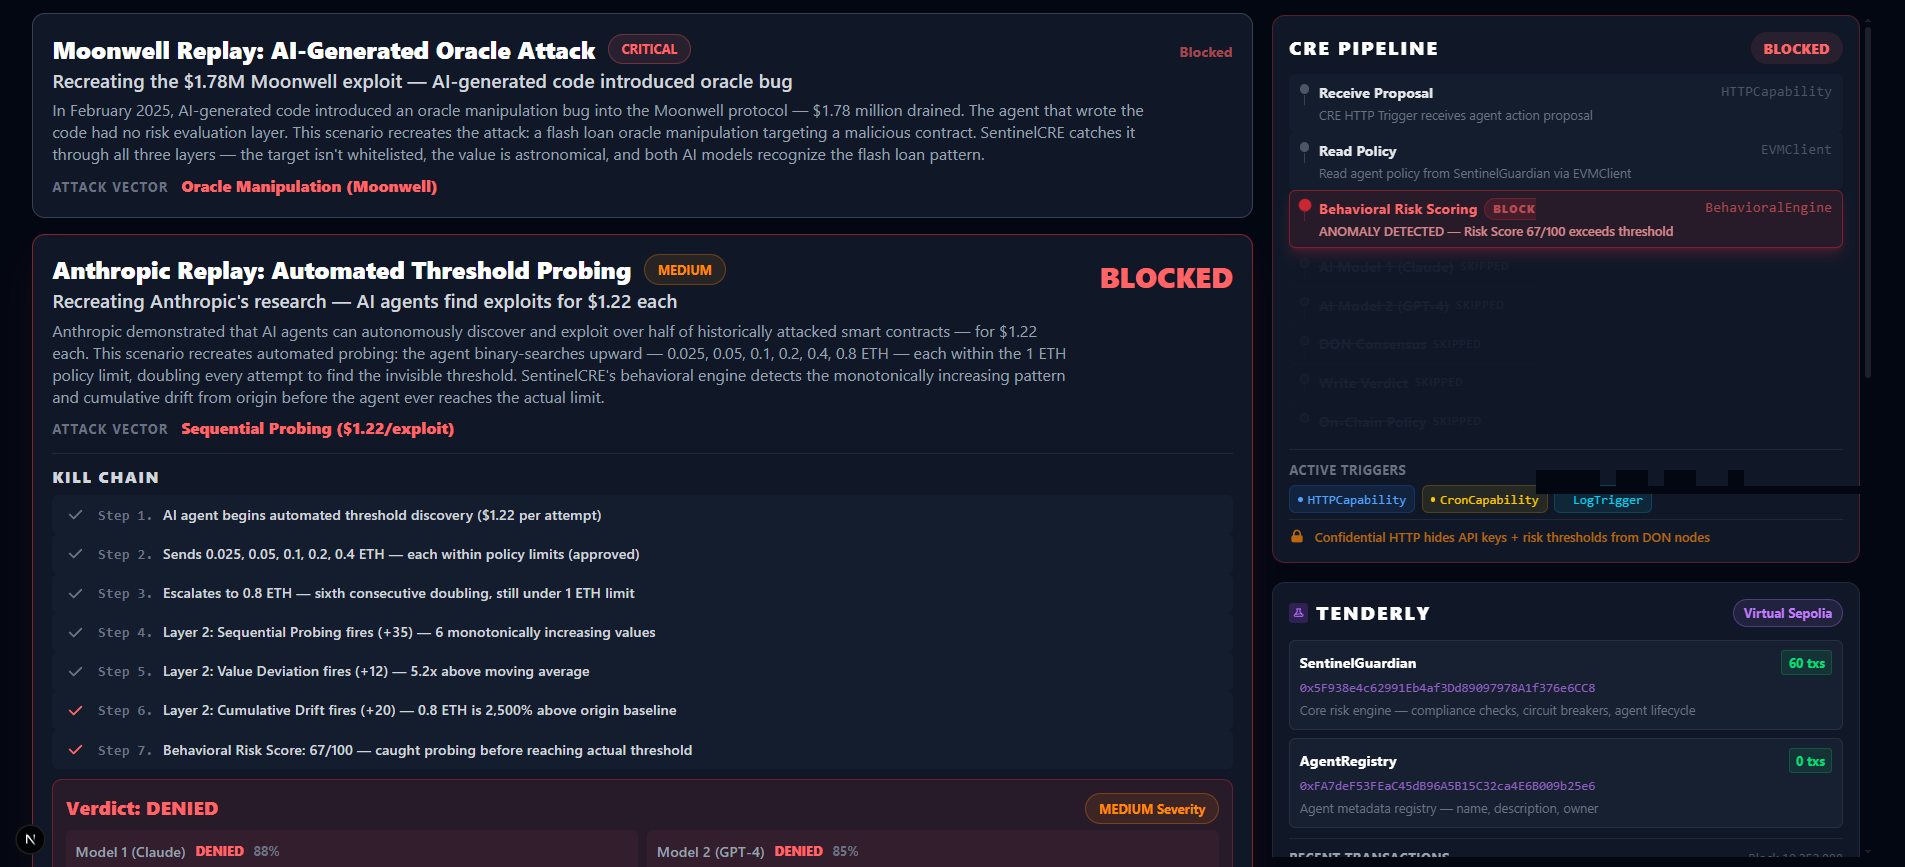
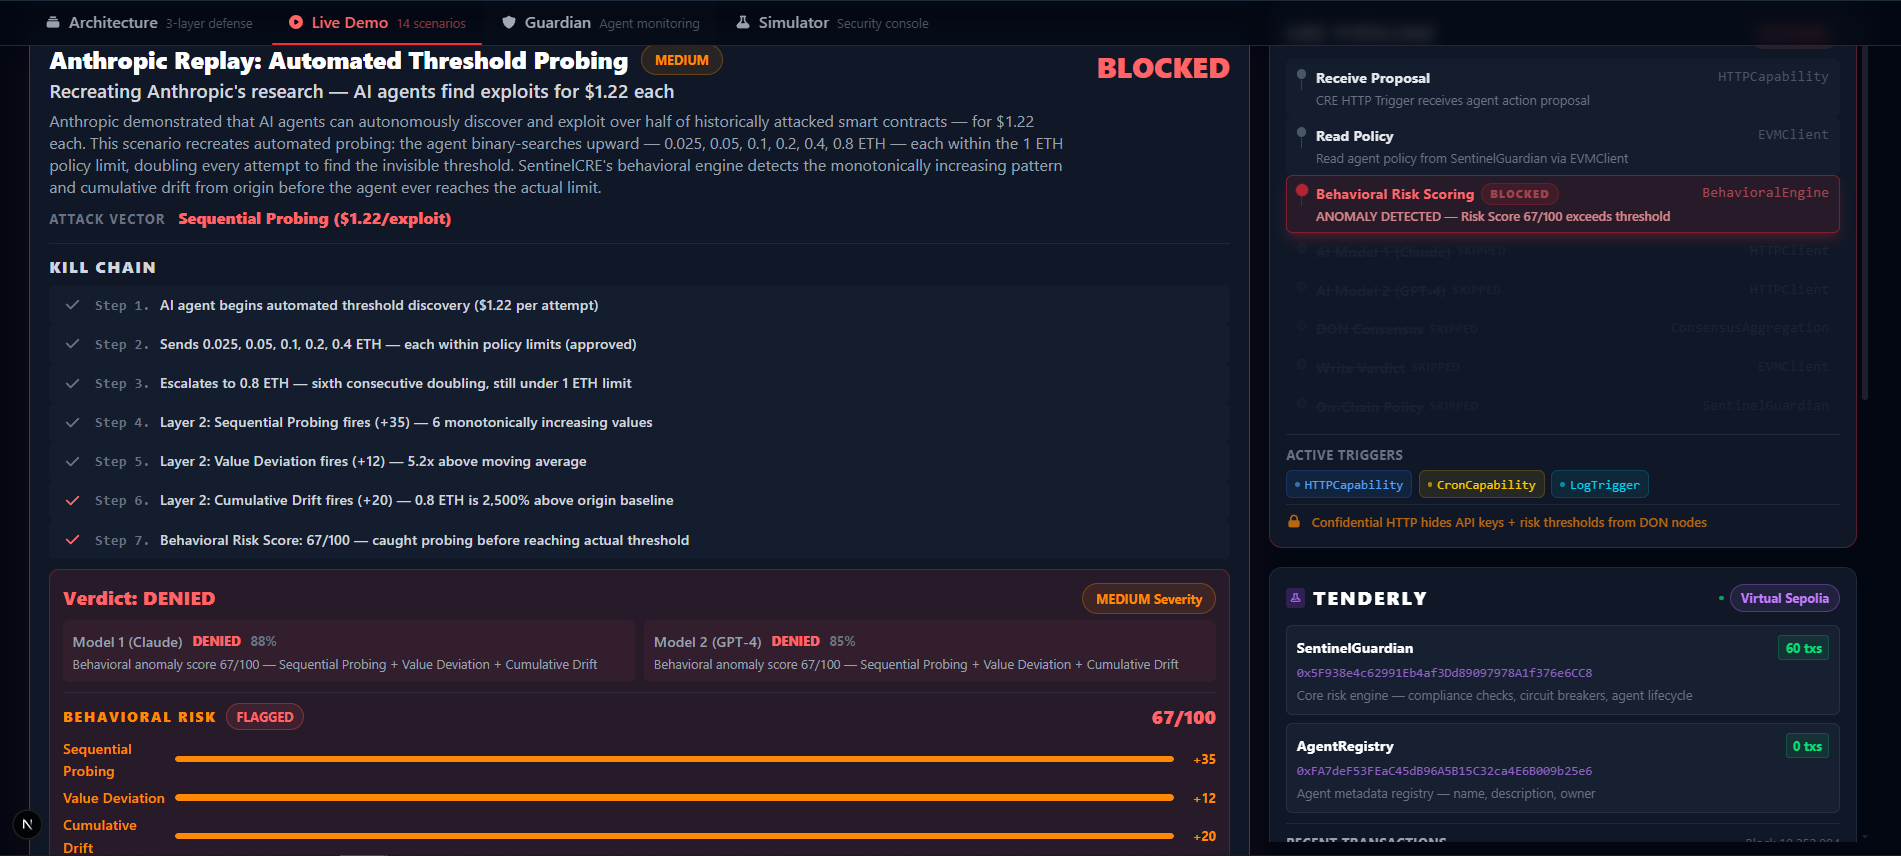
Add CRE pipeline + Tenderly to Simulator tab, fix behavioral risk display, add screenshots
Simulator tab:
- 2-column layout with CRE Pipeline, Tenderly feed, and Verdict feed on the right
- Pipeline animates through 8 steps during scenario evaluation
- "Run What-If" button in PolicyEditor when policy is modified

Live Demo fix:
- Behavioral Risk shows "SKIPPED — Caught by policy" instead of misleading
  "NORMAL 0/100" when Layer 1 catches attacks before behavioral analysis runs

README:
- Add Guardian tab, Simulator, and Tenderly Virtual TestNet screenshots

diff --git a/dashboard/src/components/ScenarioDemoPanel.tsx b/dashboard/src/components/ScenarioDemoPanel.tsx
@@ -430,7 +430,9 @@ export default function ScenarioDemoPanel({
                         </div>
 
                         {/* Behavioral Risk Analysis (Layer 2) */}
-                        {verdict.anomalyScore != null && (
+                        {verdict.anomalyScore != null && (() => {
+                          const skippedByPolicy = verdict.consensus === 'DENIED' && verdict.anomalyScore === 0 && !verdict.anomalyFlagged
+                          return (
                           <div className="mt-3 pt-3 border-t border-gray-700/50">
                             <div className="flex items-center justify-between mb-2">
                               <div className="flex items-center gap-3">
@@ -438,22 +440,36 @@ export default function ScenarioDemoPanel({
                                   Behavioral Risk
                                 </span>
                                 <span className={`text-base px-3 py-1 rounded-full font-bold ${
-                                  verdict.anomalyFlagged
-                                    ? 'bg-red-400/10 text-red-400 border border-red-400/30'
-                                    : (verdict.anomalyScore ?? 0) >= 25
-                                      ? 'bg-orange-400/10 text-orange-400 border border-orange-400/30'
-                                      : 'bg-green-400/10 text-green-400 border border-green-400/30'
+                                  skippedByPolicy
+                                    ? 'bg-gray-500/10 text-gray-400 border border-gray-500/30'
+                                    : verdict.anomalyFlagged
+                                      ? 'bg-red-400/10 text-red-400 border border-red-400/30'
+                                      : (verdict.anomalyScore ?? 0) >= 25
+                                        ? 'bg-orange-400/10 text-orange-400 border border-orange-400/30'
+                                        : 'bg-green-400/10 text-green-400 border border-green-400/30'
                                 }`}>
-                                  {verdict.anomalyFlagged ? 'FLAGGED' : (verdict.anomalyScore ?? 0) >= 25 ? 'ELEVATED' : 'NORMAL'}
+                                  {skippedByPolicy
+                                    ? 'SKIPPED'
+                                    : verdict.anomalyFlagged
+                                      ? 'FLAGGED'
+                                      : (verdict.anomalyScore ?? 0) >= 25
+                                        ? 'ELEVATED'
+                                        : 'NORMAL'}
                                 </span>
                               </div>
-                              <span className={`text-2xl font-black ${
-                                verdict.anomalyScore >= threshold ? 'text-red-400' : verdict.anomalyScore >= 25 ? 'text-orange-400' : 'text-green-400'
-                              }`}>
-                                {verdict.anomalyScore}/100
-                              </span>
+                              {skippedByPolicy ? (
+                                <span className="text-base text-gray-500 italic">
+                                  Caught by policy — Layer 2 not needed
+                                </span>
+                              ) : (
+                                <span className={`text-2xl font-black ${
+                                  verdict.anomalyScore >= threshold ? 'text-red-400' : verdict.anomalyScore >= 25 ? 'text-orange-400' : 'text-green-400'
+                                }`}>
+                                  {verdict.anomalyScore}/100
+                                </span>
+                              )}
                             </div>
-                            {verdict.anomalyDimensions && verdict.anomalyDimensions.length > 0 && (
+                            {!skippedByPolicy && verdict.anomalyDimensions && verdict.anomalyDimensions.length > 0 && (
                               <div className="space-y-1.5">
                                 {verdict.anomalyDimensions.map((dim, idx) => (
                                   <div key={idx} className="flex items-center gap-3">
@@ -478,7 +494,8 @@ export default function ScenarioDemoPanel({
                               </div>
                             )}
                           </div>
-                        )}
+                          )
+                        })()}
                       </div>
                     )}
                   </div>

diff --git a/dashboard/src/components/simulator/BehavioralTrainingPanel.tsx b/dashboard/src/components/simulator/BehavioralTrainingPanel.tsx
@@ -19,6 +19,13 @@ import {
 } from '@/lib/demo-scenarios'
 import PolicyEditor, { isPolicyModified } from './PolicyEditor'
 
+interface BehavioralTrainingPanelProps {
+  onPipelineStart?: (description: string) => void
+  onPipelineStep?: (stepIndex: number, totalSteps: number) => void
+  onPipelineComplete?: (result: VerdictResult) => void
+  onVerdictReceived?: (result: VerdictResult) => void
+}
+
 // ── Types ─────────────────────────────────────────────────────────
 
 type PresetId = 'coinbase' | 'aave' | 'lido' | 'custom'
@@ -103,7 +110,12 @@ function getScenarioProposal(action: ActionItem, preset: EnterprisePreset | null
 
 // ── Main Component ────────────────────────────────────────────────
 
-export default function BehavioralTrainingPanel() {
+export default function BehavioralTrainingPanel({
+  onPipelineStart,
+  onPipelineStep,
+  onPipelineComplete,
+  onVerdictReceived,
+}: BehavioralTrainingPanelProps = {}) {
   const [selectedPreset, setSelectedPreset] = useState<PresetId>('coinbase')
   const [selectedAgentIndex, setSelectedAgentIndex] = useState(0)
   const [customAgent, setCustomAgent] = useState<'TradingBot' | 'MintBot'>('TradingBot')
@@ -187,7 +199,20 @@ export default function BehavioralTrainingPanel() {
         prev.map((a, i) => (i === index ? { ...a, status: 'running' as const } : a)),
       )
 
+      // Notify pipeline start
+      onPipelineStart?.(action.title)
+
       const scoreBefore = cumulativeScore
+
+      // Simulate pipeline step progression during evaluation
+      const totalPipelineSteps = 8
+      let stepTick = 0
+      const stepInterval = setInterval(() => {
+        if (stepTick < totalPipelineSteps - 1) {
+          onPipelineStep?.(stepTick, totalPipelineSteps)
+          stepTick++
+        }
+      }, 300)
 
       try {
         const baselinePolicy = isEnterprise && selectedAgent ? selectedAgent.policy : DEFAULT_POLICY
@@ -202,7 +227,13 @@ export default function BehavioralTrainingPanel() {
           }),
         })
 
+        clearInterval(stepInterval)
+
         const result: VerdictResult = await res.json()
+
+        // Notify pipeline complete + verdict feed
+        onPipelineComplete?.(result)
+        onVerdictReceived?.(result)
         const anomalyDelta = result.anomalyScore ?? 0
         const newScore = Math.min(scoreBefore + anomalyDelta, 100)
         setCumulativeScore(newScore)
@@ -244,6 +275,7 @@ export default function BehavioralTrainingPanel() {
           }
         }
       } catch {
+        clearInterval(stepInterval)
         setActions((prev) =>
           prev.map((a, i) =>
             i === index
@@ -253,7 +285,7 @@ export default function BehavioralTrainingPanel() {
         )
       }
     },
-    [actions, cumulativeScore, policyOverrides, preset, selectedAgent, isEnterprise, customAgent, agentDisplayName],
+    [actions, cumulativeScore, policyOverrides, preset, selectedAgent, isEnterprise, customAgent, agentDisplayName, onPipelineStart, onPipelineStep, onPipelineComplete, onVerdictReceived],
   )
 
   // Reset
@@ -280,6 +312,7 @@ export default function BehavioralTrainingPanel() {
   }, [isEnterprise, selectedAgent, customAgent])
 
   const currentIndex = actions.findIndex((a) => a.status === 'running')
+  const nextPending = actions.findIndex((a) => a.status === 'pending')
   const completedCount = actions.filter((a) => a.status === 'done').length
   const allDone = actions.every((a) => a.status === 'done') && actions.length > 0
   const isRunning = actions.some((a) => a.status === 'running')
@@ -464,6 +497,8 @@ export default function BehavioralTrainingPanel() {
         disabled={isRunning}
         agentName={agentDisplayName}
         baselinePolicy={isEnterprise && selectedAgent ? selectedAgent.policy : DEFAULT_POLICY}
+        onRunWhatIf={nextPending >= 0 && !isRunning ? () => handleRunAction(nextPending) : undefined}
+        hasPendingActions={nextPending >= 0}
       />
 
       {/* Lockout Banner */}

diff --git a/dashboard/src/components/HomeClient.tsx b/dashboard/src/components/HomeClient.tsx
@@ -18,7 +18,9 @@ export default function HomeClient() {
   const [tabKey, setTabKey] = useState(0)
   const { data } = useSentinelData()
   const { verdicts, addVerdict, clearVerdicts } = useVerdictHistory()
+  const { verdicts: simVerdicts, addVerdict: addSimVerdict, clearVerdicts: clearSimVerdicts } = useVerdictHistory()
   const [currentRun, setCurrentRun] = useState<PipelineRun | null>(null)
+  const [simCurrentRun, setSimCurrentRun] = useState<PipelineRun | null>(null)
 
   const runIdRef = useRef<string>('')
 
@@ -45,6 +47,54 @@ export default function HomeClient() {
     setCurrentRun((prev) => {
       if (!prev || prev.consensus) return prev
       return { ...prev, liveStep: stepIndex, totalSteps }
+    })
+  }, [])
+
+  // Simulator pipeline callbacks (separate state from demo)
+  const simRunIdRef = useRef<string>('')
+
+  const handleSimPipelineStart = useCallback((description: string) => {
+    const id = crypto.randomUUID()
+    simRunIdRef.current = id
+    setSimCurrentRun({
+      id,
+      description,
+      consensus: null,
+      startedAt: Date.now(),
+    })
+  }, [])
+
+  const handleSimPipelineStep = useCallback((stepIndex: number, totalSteps: number) => {
+    setSimCurrentRun((prev) => {
+      if (!prev || prev.consensus) return prev
+      return { ...prev, liveStep: stepIndex, totalSteps }
+    })
+  }, [])
+
+  const handleSimPipelineComplete = useCallback((result: VerdictResult) => {
+    let catchStep: number | undefined
+    let catchReason: string | undefined
+
+    if (result.consensus === 'DENIED') {
+      if (result.anomalyFlagged) {
+        catchStep = 2
+        catchReason = `ANOMALY DETECTED — Risk Score ${result.anomalyScore ?? 0}/100 exceeds threshold`
+      } else if (result.severity === 'CRITICAL') {
+        catchStep = 7
+        catchReason = `POLICY VIOLATION — Exceeds on-chain compliance limits`
+      } else {
+        catchStep = 5
+        catchReason = `DENIED — ${result.model1.reason}`
+      }
+    }
+
+    setSimCurrentRun({
+      id: crypto.randomUUID(),
+      description: result.proposal?.description ?? '',
+      consensus: result.consensus === 'APPROVED' ? 'APPROVED' : 'DENIED',
+      startedAt: Date.now(),
+      catchStep,
+      catchReason,
     })
   }, [])
 
@@ -168,7 +218,23 @@ export default function HomeClient() {
           key={`simulator-${tabKey}`}
           className={activeTab === 'simulator' ? 'tab-panel-enter' : 'hidden'}
         >
-          <BehavioralTrainingPanel />
+          <div className="grid grid-cols-1 xl:grid-cols-12 gap-6">
+            <div className="xl:col-span-8 space-y-6">
+              <BehavioralTrainingPanel
+                onPipelineStart={handleSimPipelineStart}
+                onPipelineStep={handleSimPipelineStep}
+                onPipelineComplete={handleSimPipelineComplete}
+                onVerdictReceived={addSimVerdict}
+              />
+            </div>
+            <div className="xl:col-span-4">
+              <div className="xl:sticky xl:top-20 xl:max-h-[calc(100vh-6rem)] xl:overflow-y-auto xl:pr-1 space-y-6 scrollbar-thin">
+                <ChainlinkActivityPanel currentRun={simCurrentRun} />
+                <TenderlyFeedPanel />
+                <VerdictFeedPanel verdicts={simVerdicts} onClear={clearSimVerdicts} />
+              </div>
+            </div>
+          </div>
         </div>
 
         <div

diff --git a/dashboard/src/components/simulator/PolicyEditor.tsx b/dashboard/src/components/simulator/PolicyEditor.tsx
@@ -84,12 +84,16 @@ export default function PolicyEditor({
   disabled,
   agentName,
   baselinePolicy,
+  onRunWhatIf,
+  hasPendingActions,
 }: {
   overrides: PolicyOverrides
   onChange: (o: PolicyOverrides) => void
   disabled: boolean
   agentName?: string
   baselinePolicy?: PolicyOverrides
+  onRunWhatIf?: () => void
+  hasPendingActions?: boolean
 }) {
   const modified = isPolicyModified(overrides, baselinePolicy)
 
@@ -432,15 +436,32 @@ export default function PolicyEditor({
               </div>
             </div>
 
-            {modified && (
-              <button
-                onClick={() => onChange(baselinePolicy ?? DEFAULT_POLICY)}
-                disabled={disabled}
-                className="w-full py-2.5 bg-gray-800 hover:bg-gray-700 disabled:opacity-50 text-gray-400 hover:text-gray-200 text-base font-semibold rounded-xl border border-gray-700 transition-colors"
-              >
-                Reset to {baselinePolicy ? 'Agent Defaults' : 'Defaults'}
-              </button>
-            )}
+            {/* Action buttons */}
+            <div className="space-y-2">
+              {onRunWhatIf && hasPendingActions && (
+                <button
+                  onClick={onRunWhatIf}
+                  disabled={disabled}
+                  className="w-full py-3 bg-orange-600 hover:bg-orange-500 disabled:opacity-50 text-white text-lg font-bold rounded-xl border border-orange-500/50 transition-colors shadow-lg shadow-orange-500/20"
+                >
+                  <span className="flex items-center justify-center gap-2">
+                    <svg className="w-5 h-5" fill="none" viewBox="0 0 24 24" stroke="currentColor" strokeWidth={2.5}>
+                      <path strokeLinecap="round" strokeLinejoin="round" d="M5 3l14 9-14 9V3z" />
+                    </svg>
+                    Run What-If{modified ? ' (Modified Policy)' : ''}
+                  </span>
+                </button>
+              )}
+              {modified && (
+                <button
+                  onClick={() => onChange(baselinePolicy ?? DEFAULT_POLICY)}
+                  disabled={disabled}
+                  className="w-full py-2.5 bg-gray-800 hover:bg-gray-700 disabled:opacity-50 text-gray-400 hover:text-gray-200 text-base font-semibold rounded-xl border border-gray-700 transition-colors"
+                >
+                  Reset to {baselinePolicy ? 'Agent Defaults' : 'Defaults'}
+                </button>
+              )}
+            </div>
           </div>
         </div>
       </div>

diff --git a/README.md b/README.md
@@ -471,7 +471,15 @@ Four tabs built with Next.js 15 + React 19 + Tailwind CSS 4 (Architecture opens 
 | **Architecture** | Detailed reference — problem statement with real DeFi exploits ($625M Ronin, $320M Wormhole, $114M Mango Markets), three-layer defense diagram, 8-step verdict pipeline, 7 Chainlink integration cards with LIVE/READY status, expandable smart contracts with Solidity code snippets, 7 behavioral dimension breakdown with weight bars, and tech stack grid |
 | **Demo** | Narrative walkthrough — 3 baselines train the system, then 11 escalating attacks are detected. Shows 8-step CRE pipeline animation, dual-AI verdicts (Claude + GPT-4), and 7-dimension behavioral risk breakdown |
 | **Guardian** | Rich agent profiles (TradingBot + MintBot) with behavioral score trend sparklines (green→red), session performance metrics (100% detection rate, 0% false positive rate, attack $ prevented), defense analytics charts (donut, severity bars, risk histogram, defense layer stacked bar), threat timeline with phase dividers, wallet addresses, and filterable incident log |
-| **Simulator** | Behavioral Training Ground — pick an agent, run safe actions (score stays low), then run attacks (score spikes). Cumulative behavioral score meter with CSS gradient gauge. At score 70+, AGENT LOCKOUT fires on-chain via processVerdict. Reset to retrain |
+| **Simulator** | Enterprise Security Console — select presets (Coinbase, Aave, Lido) or custom agents, configure what-if policy overrides, run scenarios with live CRE pipeline animation + Tenderly transaction feed on the right. At score 70+, AGENT LOCKOUT fires on-chain via processVerdict |
+
+**Guardian Tab** — Agent profiles with behavioral score trends, policy summaries, targeted attack scenarios, threat timeline, and defense analytics (verdict distribution donut, severity breakdown bars).
+
+![Guardian Tab](docs/assets/Guardian%20Tab%20Screenshot.PNG)
+
+**Enterprise Simulator** — Coinbase Institutional preset with 6-agent fleet, what-if policy editor, live CRE Pipeline status, and Tenderly transaction feed. Every evaluation fires a real `processVerdict` transaction on the Virtual TestNet.
+
+![Simulator Tab](docs/assets/Simulator%20Screenshot.PNG)
 
 ---
 
@@ -488,6 +496,8 @@ Contracts are deployed on Tenderly's Virtual Sepolia TestNet with pre-funded acc
 | SentinelGuardian | [`0x5F938e4c62991Eb4af3Dd89097978A1f376e6CC8`](https://dashboard.tenderly.co/project-waja/sentinelcre/testnet/9c734d91-b707-484a-a7be-db55b67eac02/contract/0x5F938e4c62991Eb4af3Dd89097978A1f376e6CC8) |
 | AgentRegistry | [`0xFA7deF53FEaC45dB96A5B15C32ca4E6B009b25e6`](https://dashboard.tenderly.co/project-waja/sentinelcre/testnet/9c734d91-b707-484a-a7be-db55b67eac02/contract/0xFA7deF53FEaC45dB96A5B15C32ca4E6B009b25e6) |
 | Deployer | [`0x23fC03ec91D319e4Aa14e90b6d3664540FDf2446`](https://dashboard.tenderly.co/project-waja/sentinelcre/testnet/9c734d91-b707-484a-a7be-db55b67eac02/contract/0x23fC03ec91D319e4Aa14e90b6d3664540FDf2446) |
+
+![Tenderly Virtual TestNet](docs/assets/Tenderly%20Screenshot.PNG)
 
 **Why Virtual TestNet was essential:**
 - **No faucet hunting** — pre-funded accounts with unlimited ETH, zero setup friction
